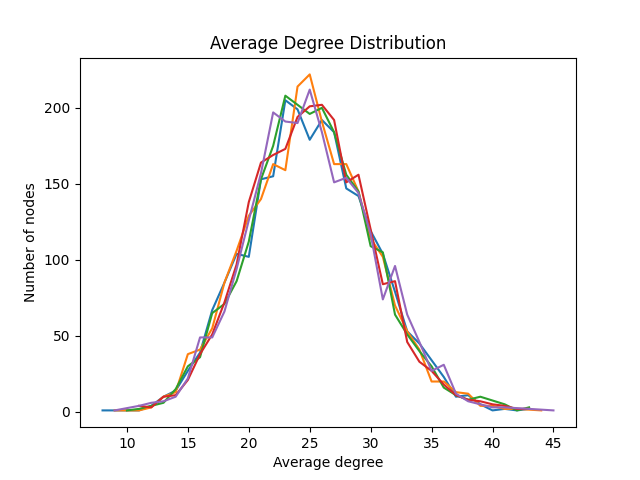
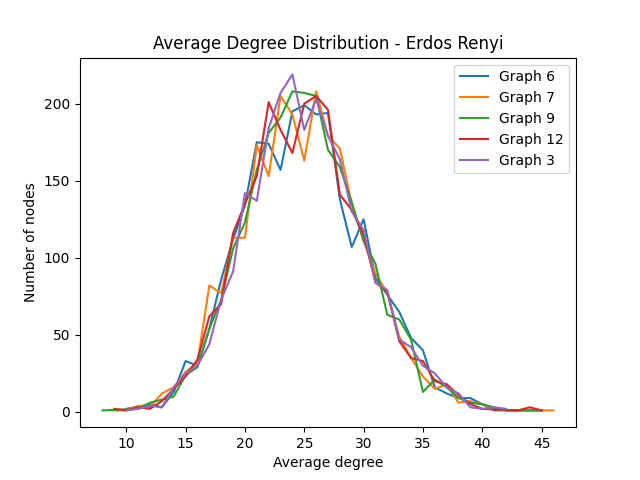
Made minor changes to the plotting of the ER graphs

diff --git a/src/generate_er.py b/src/generate_er.py
@@ -15,14 +15,15 @@ def degree_distribution(G):
     
     return items
 
-def plot_degree_distributions(degrees_to_plot, i):
+def plot_degree_distributions(degrees_to_plot, i, graphs_to_plot):
     fig = plt.figure()
     
-    for items in degrees_to_plot:
-        plt.plot([k for (k, v) in items], [v for (k, v) in items])
+    for j in range(len(degrees_to_plot)):
+        plt.plot([k for (k, v) in degrees_to_plot[j]], [v for (k, v) in degrees_to_plot[j]], label = 'Graph {}'.format(graphs_to_plot[j]+1))
         plt.xlabel('Average degree')
         plt.ylabel('Number of nodes')
-        plt.title('Average Degree Distribution')
+        plt.title('Average Degree Distribution - Erdos Renyi')
+        plt.legend()
     
     fig.savefig("Figures\degree_distribution_configuration_{}.png".format(i+1))
 
@@ -95,5 +96,5 @@ for i in range(3):
         print("Plotting degree distribution of graph number:", index+1)
         degrees_to_plot.append(degree_distribution(er_graphs[index]))
 
-    plot_degree_distributions(degrees_to_plot, i)
+    plot_degree_distributions(degrees_to_plot, i, graphs_to_plot)
     print("----------------------------------------------------------------------")
